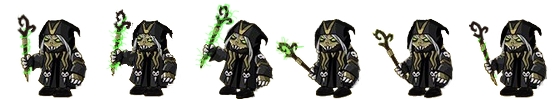
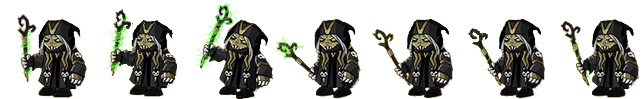
necromancer. updated simple attack animation

diff --git a/src/gameApp/monsters/Necromancer.ts b/src/gameApp/monsters/Necromancer.ts
@@ -62,7 +62,7 @@ export class Necromancer extends Monster{
 	private static readonly imageFrames = 6;
 
 	private static readonly attackImage: HTMLImageElement = new Image();  //атака 
-	private static readonly attackImageFrames = 6;
+	private static readonly attackImageFrames = 7;
 
 	static readonly chargeImage: HTMLImageElement = new Image();
 
